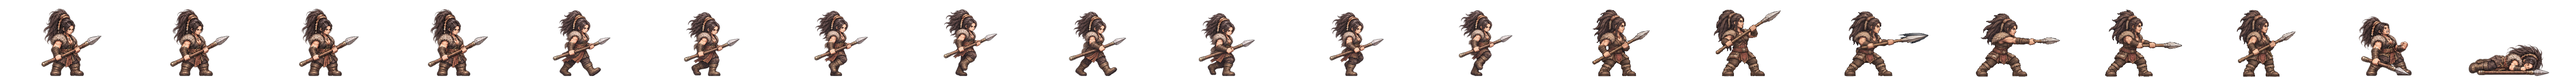
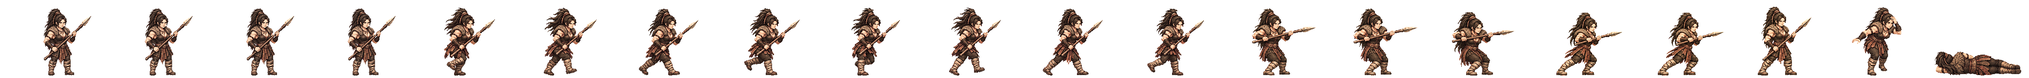
초팔 들메 새 전투 띠를 게임에 넣음(서기·걷기·창 찌르기 여덟 칸·쓰러짐·머리끈 질끈 묶기)
띠 검사 합격(경고: 서기 발 +21px · 공격 끝 칸 윗몸 -11px · 앞 여백 5px) · 찌르기 b 는 끝 칸 두 발이 모인 첫 판을 한 번 다시 그림 · 공격 끝 칸 키 141 ↔ 서기 138

Claude-Session: https://claude.ai/code/session_01TRiuN7s6aDfSnaHxrkctmU

Changed region(s): [[0.0, 0.0938, 1.0, 1.0]]

diff --git a/src/realm/data/spritePx.ts b/src/realm/data/spritePx.ts
@@ -1,3 +1,3 @@
 /** public/realm/anim-px/manifest.json 의 사본 — tools/sprite-normalize.mjs 가 만든다 (손으로 고치지 말 것). 칸 [가로, 세로] · feet = 발 줄(칸 위에서 y) · bodyPx = 서 있는 몸 키 */
 import { expandManifest } from './sprite-manifest.ts'
-export const SPRITE_PX: Readonly<Record<string, { readonly cell: readonly [number, number]; readonly feet: number; readonly bodyPx: number; readonly kind: 'general' | 'soldier' | 'folk' | 'crowd'; readonly cells: number }>> = expandManifest<{ readonly cell: readonly [number, number]; readonly feet: number; readonly bodyPx: number; readonly kind: 'general' | 'soldier' | 'folk' | 'crowd'; readonly cells: number }>([{"cell":[166,128],"feet":126,"bodyPx":124,"kind":"soldier","cells":20},{"cell":[116,128],"feet":126,"bodyPx":117,"kind":"soldier","cells":20},{"cell":[127,128],"feet":126,"bodyPx":116,"kind":"soldier","cells":20},{"cell":[269,128],"feet":126,"bodyPx":126,"kind":"soldier","cells":20},{"cell":[503,128],"feet":126,"bodyPx":127,"kind":"soldier","cells":20},{"cell":[614,128],"feet":126,"bodyPx":126,"kind":"soldier","cells":20},{"cell":[200,160],"feet":156,"bodyPx":138,"kind":"general","cells":20},{"cell":[208,160],"feet":155,"bodyPx":138,"kind":"general","cells":20},{"cell":[208,160],"feet":154,"bodyPx":138,"kind":"general","cells":20},{"cell":[304,160],"feet":155,"bodyPx":135,"kind":"general","cells":20},{"cell":[224,160],"feet":156,"bodyPx":139,"kind":"general","cells":20},{"cell":[184,160],"feet":156,"bodyPx":138,"kind":"general","cells":20},{"cell":[208,160],"feet":154,"bodyPx":136,"kind":"general","cells":20},{"cell":[240,160],"feet":156,"bodyPx":138,"kind":"general","cells":20},{"cell":[232,160],"feet":156,"bodyPx":138,"kind":"general","cells":20},{"cell":[208,160],"feet":156,"bodyPx":138,"kind":"general","cells":20},{"cell":[168,160],"feet":156,"bodyPx":138,"kind":"general","cells":20},{"cell":[192,160],"feet":156,"bodyPx":138,"kind":"general","cells":20},{"cell":[168,160],"feet":156,"bodyPx":124,"kind":"general","cells":20},{"cell":[216,160],"feet":156,"bodyPx":130,"kind":"general","cells":20},{"cell":[200,160],"feet":156,"bodyPx":116,"kind":"general","cells":20},{"cell":[200,160],"feet":156,"bodyPx":135,"kind":"general","cells":20},{"cell":[280,160],"feet":156,"bodyPx":138,"kind":"general","cells":20},{"cell":[232,160],"feet":155,"bodyPx":138,"kind":"general","cells":20},{"cell":[232,160],"feet":156,"bodyPx":134,"kind":"general","cells":20},{"cell":[144,160],"feet":156,"bodyPx":70,"kind":"general","cells":20},{"cell":[208,160],"feet":156,"bodyPx":70,"kind":"general","cells":20},{"cell":[192,160],"feet":156,"bodyPx":70,"kind":"general","cells":20},{"cell":[240,160],"feet":155,"bodyPx":138,"kind":"general","cells":20},{"cell":[160,160],"feet":156,"bodyPx":135,"kind":"general","cells":20},{"cell":[192,160],"feet":156,"bodyPx":128,"kind":"general","cells":20},{"cell":[224,160],"feet":155,"bodyPx":138,"kind":"general","cells":20},{"cell":[232,160],"feet":156,"bodyPx":139,"kind":"general","cells":20},{"cell":[216,160],"feet":156,"bodyPx":138,"kind":"general","cells":20},{"cell":[208,160],"feet":156,"bodyPx":134,"kind":"general","cells":20},{"cell":[176,160],"feet":156,"bodyPx":130,"kind":"general","cells":20},{"cell":[248,160],"feet":156,"bodyPx":138,"kind":"general","cells":20},{"cell":[248,160],"feet":155,"bodyPx":138,"kind":"general","cells":20},{"cell":[192,160],"feet":155,"bodyPx":138,"kind":"general","cells":20},{"cell":[192,160],"feet":156,"bodyPx":124,"kind":"general","cells":20},{"cell":[208,160],"feet":154,"bodyPx":131,"kind":"general","cells":20},{"cell":[256,160],"feet":156,"bodyPx":138,"kind":"general","cells":20},{"cell":[232,160],"feet":156,"bodyPx":73,"kind":"general","cells":20},{"cell":[256,160],"feet":155,"bodyPx":138,"kind":"general","cells":20},{"cell":[264,160],"feet":156,"bodyPx":138,"kind":"general","cells":20},{"cell":[224,160],"feet":156,"bodyPx":138,"kind":"general","cells":20},{"cell":[224,160],"feet":156,"bodyPx":128,"kind":"general","cells":20},{"cell":[176,160],"feet":156,"bodyPx":129,"kind":"general","cells":20},{"cell":[208,160],"feet":154,"bodyPx":139,"kind":"general","cells":20},{"cell":[208,160],"feet":156,"bodyPx":132,"kind":"general","cells":20},{"cell":[216,160],"feet":155,"bodyPx":138,"kind":"general","cells":20},{"cell":[184,160],"feet":156,"bodyPx":122,"kind":"general","cells":20},{"cell":[176,160],"feet":156,"bodyPx":138,"kind":"general","cells":20},{"cell":[280,160],"feet":155,"bodyPx":133,"kind":"general","cells":20},{"cell":[176,160],"feet":156,"bodyPx":70,"kind":"general","cells":20},{"cell":[186,128],"feet":126,"bodyPx":127,"kind":"soldier","cells":20},{"cell":[298,128],"feet":126,"bodyPx":126,"kind":"soldier","cells":20},{"cell":[82,128],"feet":126,"bodyPx":114,"kind":"folk","cells":8},{"cell":[134,128],"feet":126,"bodyPx":119,"kind":"soldier","cells":20},{"cell":[380,128],"feet":126,"bodyPx":124,"kind":"soldier","cells":20},{"cell":[114,128],"feet":126,"bodyPx":115,"kind":"soldier","cells":20},{"cell":[122,128],"feet":126,"bodyPx":114,"kind":"soldier","cells":20},{"cell":[254,128],"feet":126,"bodyPx":128,"kind":"soldier","cells":20},{"cell":[438,128],"feet":126,"bodyPx":126,"kind":"soldier","cells":20},{"cell":[88,128],"feet":126,"bodyPx":113,"kind":"folk","cells":8},{"cell":[100,128],"feet":126,"bodyPx":115,"kind":"folk","cells":8},{"cell":[108,128],"feet":126,"bodyPx":115,"kind":"folk","cells":8},{"cell":[63,128],"feet":126,"bodyPx":113,"kind":"folk","cells":8},{"cell":[69,96],"feet":96,"bodyPx":96,"kind":"crowd","cells":1},{"cell":[54,96],"feet":96,"bodyPx":96,"kind":"crowd","cells":1},{"cell":[47,96],"feet":96,"bodyPx":96,"kind":"crowd","cells":1},{"cell":[49,96],"feet":96,"bodyPx":96,"kind":"crowd","cells":1},{"cell":[57,96],"feet":96,"bodyPx":96,"kind":"crowd","cells":1},{"cell":[55,96],"feet":96,"bodyPx":96,"kind":"crowd","cells":1},{"cell":[45,96],"feet":96,"bodyPx":96,"kind":"crowd","cells":1},{"cell":[53,96],"feet":96,"bodyPx":96,"kind":"crowd","cells":1},{"cell":[64,96],"feet":96,"bodyPx":96,"kind":"crowd","cells":1},{"cell":[184,160],"feet":156,"bodyPx":124,"kind":"general","cells":20},{"cell":[184,160],"feet":156,"bodyPx":134,"kind":"general","cells":20},{"cell":[224,160],"feet":156,"bodyPx":133,"kind":"general","cells":20},{"cell":[192,160],"feet":156,"bodyPx":135,"kind":"general","cells":20},{"cell":[184,160],"feet":156,"bodyPx":137,"kind":"general","cells":20},{"cell":[216,160],"feet":156,"bodyPx":134,"kind":"general","cells":20},{"cell":[216,160],"feet":156,"bodyPx":132,"kind":"general","cells":20},{"cell":[288,160],"feet":156,"bodyPx":138,"kind":"general","cells":20},{"cell":[192,160],"feet":156,"bodyPx":118,"kind":"general","cells":20},{"cell":[192,160],"feet":156,"bodyPx":134,"kind":"general","cells":20},{"cell":[192,160],"feet":157,"bodyPx":139,"kind":"general","cells":20},{"cell":[184,160],"feet":156,"bodyPx":128,"kind":"general","cells":20},{"cell":[240,160],"feet":156,"bodyPx":128,"kind":"general","cells":20},{"cell":[184,160],"feet":156,"bodyPx":132,"kind":"general","cells":20},{"cell":[208,160],"feet":156,"bodyPx":123,"kind":"general","cells":20},{"cell":[208,160],"feet":154,"bodyPx":137,"kind":"general","cells":20},{"cell":[176,160],"feet":156,"bodyPx":116,"kind":"general","cells":20},{"cell":[272,160],"feet":156,"bodyPx":138,"kind":"general","cells":20},{"cell":[176,160],"feet":156,"bodyPx":122,"kind":"general","cells":20},{"cell":[232,160],"feet":156,"bodyPx":127,"kind":"general","cells":20},{"cell":[176,160],"feet":156,"bodyPx":137,"kind":"general","cells":20},{"cell":[184,160],"feet":156,"bodyPx":133,"kind":"general","cells":20}],[["axe",0],["bandit-chief",1],["bandit-club",2],["boat",3],["bow",4],["crossbow",5],["gen-adogan",6],["gen-alpyeong",7],["gen-ara",8],["gen-areum",8],["gen-aryeong",9],["gen-bakdal",6],["gen-baram",10],["gen-bdanbi",11],["gen-beom",12],["gen-beombal",11],["gen-beomi",13],["gen-bira",14],["gen-biryu",15],["gen-budeul",16],["gen-byeol",17],["gen-daemusin",18],["gen-daeso",19],["gen-dallae2",11],["gen-dalli",11],["gen-damul",20],["gen-danbi",15],["gen-dangung",17],["gen-darae",21],["gen-dokmudeom",7],["gen-duman",22],["gen-eomni",23],["gen-eureum",24],["gen-g-bow",25],["gen-g-spear",26],["gen-g-sword",27],["gen-gaennae",6],["gen-gamsil",28],["gen-gaon",29],["gen-geota",15],["gen-geumbawi",11],["gen-geumha",30],["gen-goeun",15],["gen-gom",31],["gen-gomok",15],["gen-gureum",28],["gen-guryema",17],["gen-gwaeyu",14],["gen-haebi",8],["gen-haedal",6],["gen-haesol",32],["gen-halla",7],["gen-heo",8],["gen-hneoul",11],["gen-hogong",33],["gen-hojin",15],["gen-horselord",34],["gen-hwalmi",35],["gen-hyeokgeose",17],["gen-hyeopbo",6],["gen-irang",15],["gen-jibaekho",36],["gen-jinha",37],["gen-jita",38],["gen-jumong",39],["gen-keundol",7],["gen-maehwa",40],["gen-maenun",17],["gen-malgalgi",41],["gen-mari",13],["gen-maro",36],["gen-maryeo",15],["gen-mdallae",32],["gen-mir",6],["gen-mount",42],["gen-mulbeom",43],["gen-mulsae",33],["gen-musoe",33],["gen-noeul",8],["gen-nuri",44],["gen-ocheongan",45],["gen-odi",8],["gen-odogan",6],["gen-ogan",17],["gen-oi",46],["gen-olddaeso",24],["gen-onjo",47],["gen-pidogan",15],["gen-sagong",48],["gen-sdallae",6],["gen-sincheongan",33],["gen-singwigan",33],["gen-sinneoul",8],["gen-sobeol",23],["gen-soebi",6],["gen-soebo",49],["gen-soenun",36],["gen-sogeumbi",50],["gen-songbi",45],["gen-songyang",51],["gen-sori",52],["gen-soseono",53],["gen-suro",17],["gen-tahae",6],["gen-tneoul",8],["gen-w-bow",25],["gen-w-spear",54],["gen-waechief",15],["gen-wan",33],["gen-yeodogan",15],["gen-yucheongan",15],["gen-yusugan",36],["horse",55],["marine",56],["migrant",57],["militia",58],["pike",59],["pirate-captain",60],["pirate-sword",61],["shield",62],["spear",63],["villager-builder",64],["villager-farmer",65],["villager-porter",66],["villager-woman",67],["crowd-b1",68],["crowd-b2",69],["crowd-b3",70],["crowd-b4",71],["crowd-b5",72],["crowd-b6",73],["crowd-f1",68],["crowd-f2",73],["crowd-f3",74],["crowd-f4",75],["crowd-f5",68],["crowd-f6",76],["gen-dalbit",15],["gen-base-g-07-drunk-warrior",17],["gen-base-g-40-anya-adan",15],["gen-base-w-13-young-archer",8],["gen-base-g-03-sea-trader",13],["gen-base-w-10-pirate-captain",48],["gen-base-w-64-miri-dallae",48],["gen-base-g-41-goja-bau",13],["gen-base-g-42-dokro-garam",44],["gen-base-g-09-farmer-conscript",33],["gen-base-w-02-goguryeo-lady",33],["gen-base-w-17-mahan-pearl-diver",8],["gen-base-g-17-saro-isageum",49],["gen-base-g-18-daegaya-king",77],["gen-base-g-35-dabeol-dalgu",15],["gen-base-g-19-sabeol-veteran",33],["gen-base-w-23-usisan-whale-queen",8],["gen-base-g-36-gammun-gamdol",45],["gen-base-g-20-samul-sea-lord",41],["gen-base-g-37-eumjeup-jeup",11],["gen-base-g-38-chopal-palmae",17],["gen-base-w-75-daegaya-soemoe",17],["gen-base-g-45-dabeol-deulgae",11],["gen-base-g-04-jinhan-giant",15],["gen-base-g-08-veteran",15],["gen-base-w-18-jinhan-salt-widow",15],["gen-base-w-12-court-dancer",78],["gen-base-w-83-gyeonji-beodeul",79],["gen-base-w-05-baekje-queen",80],["gen-base-w-21-baekje-court-dancer",11],["gen-base-g-01-master-smith",81],["gen-base-g-93-jomun-solgae",35],["gen-base-g-57-bihwa-neup",13],["gen-base-w-72-eumjeup-beol",8],["gen-base-w-102-garak-dana",33],["gen-base-g-68-baekje-onnuri",15],["gen-base-w-27-mokji-jinha",6],["gen-base-g-22-ungcheon-gomnae",6],["gen-base-g-23-sangdang-soedal",15],["gen-base-g-24-wansan-onsan",6],["gen-base-g-25-balla-keunmoe",33],["gen-base-g-61-heomcheuk-bawi",33],["gen-base-g-88-wander-soeul",45],["gen-base-w-14-feast-spy",6],["gen-base-g-12-silla-youth",82],["gen-base-w-08-mahan-warrior",8],["gen-base-g-62-beonye-hanul",13],["gen-base-g-63-heomcheuk-beogeum",15],["gen-base-g-84-wander-seoneul",15],["gen-base-w-50-siljik-mulga",33],["gen-base-g-46-uga-nureongso",33],["gen-base-w-80-usan-gangchi",13],["gen-base-g-47-guga-sanyanggae",33],["gen-base-w-76-gampyeong-baetsagong",8],["gen-base-g-05-mahan-chieftain",83],["gen-base-g-58-usan-uhae",15],["gen-base-g-27-maek-maekdol",15],["gen-base-w-53-hwanna-gabi",16],["gen-base-w-29-golpo-janmul",36],["gen-base-g-53-baekje-haeru",6],["gen-base-w-71-yeonna-neoul",13],["gen-base-w-79-yangmaek-solmae",33],["gen-base-w-34-chopal-deulme",44],["gen-base-g-44-maga-malgup",84],["gen-base-w-31-dabeol-dalbit",48],["gen-base-g-51-biryuna-mulgyeol",45],["gen-base-g-48-gwanna-musoe",15],["gen-base-g-32-uga-sodu",14],["gen-base-g-49-goguryeo-sona",85],["gen-base-g-30-gwanna-soemoe",45],["gen-base-g-52-tamna-oreum",11],["gen-base-g-29-yeonna-myeongsol",39],["gen-base-w-56-dongokjeo-sogeum",86],["gen-base-g-54-mokji-mahan",14],["gen-base-g-33-jeoga-metdol",17],["gen-base-w-36-baekje-maena",17],["gen-base-w-38-sangdang-bulmae",6],["gen-base-w-39-gosaburi-galmae",87],["gen-base-w-40-mujin-munui",49],["gen-base-w-41-hwanna-beodeul",88],["gen-base-w-43-uga-nuri",41],["gen-base-w-45-tamna-oreumbi",11],["gen-base-g-60-golbeol-golgae",11],["gen-base-g-61-apdok-ap",33],["gen-base-g-62-gammun-gamnamu",6],["gen-base-g-63-chopal-yeoul",36],["gen-base-g-64-michuhol-sogeumkkun",13],["gen-base-g-65-sangdang-soemangchi",45],["gen-base-g-66-geonma-malbalgup",89],["gen-base-g-67-gosaburi-buri",90],["gen-base-g-68-mujin-bitgoeul",11],["gen-base-g-69-goryong-yong",45],["gen-base-g-70-siljik-pado",13],["gen-base-w-81-byeokjin-byeolbit",14],["gen-base-w-46-geonma-maru",36],["gen-base-w-48-mujin-mudeung",13],["gen-base-g-26-gampyeong-gaetbeol",14],["gen-base-g-60-eupcha-hangyeol",91],["gen-base-g-15-shaman-man",33],["gen-base-g-85-wander-ure",36],["gen-base-g-43-hwanna-amnok",15],["gen-base-g-50-bullae-gwaha",80],["gen-base-g-55-saro-bakdal",15],["gen-base-g-56-haseulla-gwahama",6],["gen-base-w-06-buyeo-huntress",92],["gen-base-w-22-dongye-tiger-huntress",8],["gen-base-w-25-bihwa-priestess",33],["gen-base-w-24-apdok-queen",11],["gen-base-w-61-iseo-sinae",15],["gen-base-w-26-iseo-tomboy-general",8],["gen-base-g-59-yangmaek-maekson",93],["gen-aw1-haebi",45],["gen-aw1-soseono",94],["gen-aw1-gamsil",11],["gen-aw1-mir",52],["gen-aw1-dangung",6],["gen-aw1-ara",45],["gen-aw1-jumong",95],["gen-aw1-onjo",96],["gen-aw1-base-w-83-gyeonji-beodeul",17],["gen-aw1-heo",44],["gen-aw1-base-g-38-chopal-palmae",6],["gen-aw1-base-w-25-bihwa-priestess",78],["gen-aw1-sori",16],["gen-aw1-gomok",6],["gen-aw1-irang",17],["gen-aw1-budeul",16],["gen-aw1-gom",13],["gen-aw1-sdallae",6],["gen-aw1-base-w-13-young-archer",6],["gen-aw1-base-w-36-baekje-maena",97],["gen-aw1-base-g-09-farmer-conscript",44],["gen-aw1-base-w-02-goguryeo-lady",98],["gen-aw1-haedal",11],["gen-aw1-hogong",6],["gen-aw1-maehwa",52],["gen-aw1-base-w-06-buyeo-huntress",14],["gen-aw1-base-w-08-mahan-warrior",45],["gen-aw1-base-w-29-golpo-janmul",45],["gen-aw1-base-w-31-dabeol-dalbit",17],["gen-aw1-base-w-38-sangdang-bulmae",16],["gen-aw1-bira",33],["gen-aw1-base-w-53-hwanna-gabi",16],["gen-aw1-base-w-56-dongokjeo-sogeum",52],["gen-aw1-base-w-72-eumjeup-beol",17],["gen-aw1-bdanbi",16],["gen-aw1-beom",11],["gen-aw1-beombal",11],["gen-aw1-byeol",17],["gen-aw1-dalli",52],["gen-aw1-malgalgi",36],["gen-aw1-sincheongan",33]])
+export const SPRITE_PX: Readonly<Record<string, { readonly cell: readonly [number, number]; readonly feet: number; readonly bodyPx: number; readonly kind: 'general' | 'soldier' | 'folk' | 'crowd'; readonly cells: number }>> = expandManifest<{ readonly cell: readonly [number, number]; readonly feet: number; readonly bodyPx: number; readonly kind: 'general' | 'soldier' | 'folk' | 'crowd'; readonly cells: number }>([{"cell":[166,128],"feet":126,"bodyPx":124,"kind":"soldier","cells":20},{"cell":[116,128],"feet":126,"bodyPx":117,"kind":"soldier","cells":20},{"cell":[127,128],"feet":126,"bodyPx":116,"kind":"soldier","cells":20},{"cell":[269,128],"feet":126,"bodyPx":126,"kind":"soldier","cells":20},{"cell":[503,128],"feet":126,"bodyPx":127,"kind":"soldier","cells":20},{"cell":[614,128],"feet":126,"bodyPx":126,"kind":"soldier","cells":20},{"cell":[200,160],"feet":156,"bodyPx":138,"kind":"general","cells":20},{"cell":[208,160],"feet":155,"bodyPx":138,"kind":"general","cells":20},{"cell":[208,160],"feet":154,"bodyPx":138,"kind":"general","cells":20},{"cell":[304,160],"feet":155,"bodyPx":135,"kind":"general","cells":20},{"cell":[224,160],"feet":156,"bodyPx":139,"kind":"general","cells":20},{"cell":[184,160],"feet":156,"bodyPx":138,"kind":"general","cells":20},{"cell":[208,160],"feet":154,"bodyPx":136,"kind":"general","cells":20},{"cell":[240,160],"feet":156,"bodyPx":138,"kind":"general","cells":20},{"cell":[232,160],"feet":156,"bodyPx":138,"kind":"general","cells":20},{"cell":[208,160],"feet":156,"bodyPx":138,"kind":"general","cells":20},{"cell":[168,160],"feet":156,"bodyPx":138,"kind":"general","cells":20},{"cell":[192,160],"feet":156,"bodyPx":138,"kind":"general","cells":20},{"cell":[168,160],"feet":156,"bodyPx":124,"kind":"general","cells":20},{"cell":[216,160],"feet":156,"bodyPx":130,"kind":"general","cells":20},{"cell":[200,160],"feet":156,"bodyPx":116,"kind":"general","cells":20},{"cell":[200,160],"feet":156,"bodyPx":135,"kind":"general","cells":20},{"cell":[280,160],"feet":156,"bodyPx":138,"kind":"general","cells":20},{"cell":[232,160],"feet":155,"bodyPx":138,"kind":"general","cells":20},{"cell":[232,160],"feet":156,"bodyPx":134,"kind":"general","cells":20},{"cell":[144,160],"feet":156,"bodyPx":70,"kind":"general","cells":20},{"cell":[208,160],"feet":156,"bodyPx":70,"kind":"general","cells":20},{"cell":[192,160],"feet":156,"bodyPx":70,"kind":"general","cells":20},{"cell":[240,160],"feet":155,"bodyPx":138,"kind":"general","cells":20},{"cell":[160,160],"feet":156,"bodyPx":135,"kind":"general","cells":20},{"cell":[192,160],"feet":156,"bodyPx":128,"kind":"general","cells":20},{"cell":[224,160],"feet":155,"bodyPx":138,"kind":"general","cells":20},{"cell":[232,160],"feet":156,"bodyPx":139,"kind":"general","cells":20},{"cell":[216,160],"feet":156,"bodyPx":138,"kind":"general","cells":20},{"cell":[208,160],"feet":156,"bodyPx":134,"kind":"general","cells":20},{"cell":[176,160],"feet":156,"bodyPx":130,"kind":"general","cells":20},{"cell":[248,160],"feet":156,"bodyPx":138,"kind":"general","cells":20},{"cell":[248,160],"feet":155,"bodyPx":138,"kind":"general","cells":20},{"cell":[192,160],"feet":155,"bodyPx":138,"kind":"general","cells":20},{"cell":[192,160],"feet":156,"bodyPx":124,"kind":"general","cells":20},{"cell":[208,160],"feet":154,"bodyPx":131,"kind":"general","cells":20},{"cell":[256,160],"feet":156,"bodyPx":138,"kind":"general","cells":20},{"cell":[232,160],"feet":156,"bodyPx":73,"kind":"general","cells":20},{"cell":[256,160],"feet":155,"bodyPx":138,"kind":"general","cells":20},{"cell":[264,160],"feet":156,"bodyPx":138,"kind":"general","cells":20},{"cell":[224,160],"feet":156,"bodyPx":138,"kind":"general","cells":20},{"cell":[224,160],"feet":156,"bodyPx":128,"kind":"general","cells":20},{"cell":[176,160],"feet":156,"bodyPx":129,"kind":"general","cells":20},{"cell":[208,160],"feet":154,"bodyPx":139,"kind":"general","cells":20},{"cell":[208,160],"feet":156,"bodyPx":132,"kind":"general","cells":20},{"cell":[216,160],"feet":155,"bodyPx":138,"kind":"general","cells":20},{"cell":[184,160],"feet":156,"bodyPx":122,"kind":"general","cells":20},{"cell":[176,160],"feet":156,"bodyPx":138,"kind":"general","cells":20},{"cell":[280,160],"feet":155,"bodyPx":133,"kind":"general","cells":20},{"cell":[176,160],"feet":156,"bodyPx":70,"kind":"general","cells":20},{"cell":[186,128],"feet":126,"bodyPx":127,"kind":"soldier","cells":20},{"cell":[298,128],"feet":126,"bodyPx":126,"kind":"soldier","cells":20},{"cell":[82,128],"feet":126,"bodyPx":114,"kind":"folk","cells":8},{"cell":[134,128],"feet":126,"bodyPx":119,"kind":"soldier","cells":20},{"cell":[380,128],"feet":126,"bodyPx":124,"kind":"soldier","cells":20},{"cell":[114,128],"feet":126,"bodyPx":115,"kind":"soldier","cells":20},{"cell":[122,128],"feet":126,"bodyPx":114,"kind":"soldier","cells":20},{"cell":[254,128],"feet":126,"bodyPx":128,"kind":"soldier","cells":20},{"cell":[438,128],"feet":126,"bodyPx":126,"kind":"soldier","cells":20},{"cell":[88,128],"feet":126,"bodyPx":113,"kind":"folk","cells":8},{"cell":[100,128],"feet":126,"bodyPx":115,"kind":"folk","cells":8},{"cell":[108,128],"feet":126,"bodyPx":115,"kind":"folk","cells":8},{"cell":[63,128],"feet":126,"bodyPx":113,"kind":"folk","cells":8},{"cell":[69,96],"feet":96,"bodyPx":96,"kind":"crowd","cells":1},{"cell":[54,96],"feet":96,"bodyPx":96,"kind":"crowd","cells":1},{"cell":[47,96],"feet":96,"bodyPx":96,"kind":"crowd","cells":1},{"cell":[49,96],"feet":96,"bodyPx":96,"kind":"crowd","cells":1},{"cell":[57,96],"feet":96,"bodyPx":96,"kind":"crowd","cells":1},{"cell":[55,96],"feet":96,"bodyPx":96,"kind":"crowd","cells":1},{"cell":[45,96],"feet":96,"bodyPx":96,"kind":"crowd","cells":1},{"cell":[53,96],"feet":96,"bodyPx":96,"kind":"crowd","cells":1},{"cell":[64,96],"feet":96,"bodyPx":96,"kind":"crowd","cells":1},{"cell":[184,160],"feet":156,"bodyPx":124,"kind":"general","cells":20},{"cell":[184,160],"feet":156,"bodyPx":134,"kind":"general","cells":20},{"cell":[224,160],"feet":156,"bodyPx":133,"kind":"general","cells":20},{"cell":[192,160],"feet":156,"bodyPx":135,"kind":"general","cells":20},{"cell":[184,160],"feet":156,"bodyPx":137,"kind":"general","cells":20},{"cell":[216,160],"feet":156,"bodyPx":134,"kind":"general","cells":20},{"cell":[216,160],"feet":156,"bodyPx":132,"kind":"general","cells":20},{"cell":[288,160],"feet":156,"bodyPx":138,"kind":"general","cells":20},{"cell":[192,160],"feet":156,"bodyPx":118,"kind":"general","cells":20},{"cell":[192,160],"feet":156,"bodyPx":134,"kind":"general","cells":20},{"cell":[192,160],"feet":157,"bodyPx":139,"kind":"general","cells":20},{"cell":[184,160],"feet":156,"bodyPx":128,"kind":"general","cells":20},{"cell":[240,160],"feet":156,"bodyPx":128,"kind":"general","cells":20},{"cell":[184,160],"feet":156,"bodyPx":132,"kind":"general","cells":20},{"cell":[208,160],"feet":156,"bodyPx":123,"kind":"general","cells":20},{"cell":[208,160],"feet":154,"bodyPx":137,"kind":"general","cells":20},{"cell":[176,160],"feet":156,"bodyPx":116,"kind":"general","cells":20},{"cell":[272,160],"feet":156,"bodyPx":138,"kind":"general","cells":20},{"cell":[176,160],"feet":156,"bodyPx":122,"kind":"general","cells":20},{"cell":[232,160],"feet":156,"bodyPx":127,"kind":"general","cells":20},{"cell":[176,160],"feet":156,"bodyPx":137,"kind":"general","cells":20},{"cell":[184,160],"feet":156,"bodyPx":133,"kind":"general","cells":20}],[["axe",0],["bandit-chief",1],["bandit-club",2],["boat",3],["bow",4],["crossbow",5],["gen-adogan",6],["gen-alpyeong",7],["gen-ara",8],["gen-areum",8],["gen-aryeong",9],["gen-bakdal",6],["gen-baram",10],["gen-bdanbi",11],["gen-beom",12],["gen-beombal",11],["gen-beomi",13],["gen-bira",14],["gen-biryu",15],["gen-budeul",16],["gen-byeol",17],["gen-daemusin",18],["gen-daeso",19],["gen-dallae2",11],["gen-dalli",11],["gen-damul",20],["gen-danbi",15],["gen-dangung",17],["gen-darae",21],["gen-dokmudeom",7],["gen-duman",22],["gen-eomni",23],["gen-eureum",24],["gen-g-bow",25],["gen-g-spear",26],["gen-g-sword",27],["gen-gaennae",6],["gen-gamsil",28],["gen-gaon",29],["gen-geota",15],["gen-geumbawi",11],["gen-geumha",30],["gen-goeun",15],["gen-gom",31],["gen-gomok",15],["gen-gureum",28],["gen-guryema",17],["gen-gwaeyu",14],["gen-haebi",8],["gen-haedal",6],["gen-haesol",32],["gen-halla",7],["gen-heo",8],["gen-hneoul",11],["gen-hogong",33],["gen-hojin",15],["gen-horselord",34],["gen-hwalmi",35],["gen-hyeokgeose",17],["gen-hyeopbo",6],["gen-irang",15],["gen-jibaekho",36],["gen-jinha",37],["gen-jita",38],["gen-jumong",39],["gen-keundol",7],["gen-maehwa",40],["gen-maenun",17],["gen-malgalgi",41],["gen-mari",13],["gen-maro",36],["gen-maryeo",15],["gen-mdallae",32],["gen-mir",6],["gen-mount",42],["gen-mulbeom",43],["gen-mulsae",33],["gen-musoe",33],["gen-noeul",8],["gen-nuri",44],["gen-ocheongan",45],["gen-odi",8],["gen-odogan",6],["gen-ogan",17],["gen-oi",46],["gen-olddaeso",24],["gen-onjo",47],["gen-pidogan",15],["gen-sagong",48],["gen-sdallae",6],["gen-sincheongan",33],["gen-singwigan",33],["gen-sinneoul",8],["gen-sobeol",23],["gen-soebi",6],["gen-soebo",49],["gen-soenun",36],["gen-sogeumbi",50],["gen-songbi",45],["gen-songyang",51],["gen-sori",52],["gen-soseono",53],["gen-suro",17],["gen-tahae",6],["gen-tneoul",8],["gen-w-bow",25],["gen-w-spear",54],["gen-waechief",15],["gen-wan",33],["gen-yeodogan",15],["gen-yucheongan",15],["gen-yusugan",36],["horse",55],["marine",56],["migrant",57],["militia",58],["pike",59],["pirate-captain",60],["pirate-sword",61],["shield",62],["spear",63],["villager-builder",64],["villager-farmer",65],["villager-porter",66],["villager-woman",67],["crowd-b1",68],["crowd-b2",69],["crowd-b3",70],["crowd-b4",71],["crowd-b5",72],["crowd-b6",73],["crowd-f1",68],["crowd-f2",73],["crowd-f3",74],["crowd-f4",75],["crowd-f5",68],["crowd-f6",76],["gen-dalbit",15],["gen-base-g-07-drunk-warrior",17],["gen-base-g-40-anya-adan",15],["gen-base-w-13-young-archer",8],["gen-base-g-03-sea-trader",13],["gen-base-w-10-pirate-captain",48],["gen-base-w-64-miri-dallae",48],["gen-base-g-41-goja-bau",13],["gen-base-g-42-dokro-garam",44],["gen-base-g-09-farmer-conscript",33],["gen-base-w-02-goguryeo-lady",33],["gen-base-w-17-mahan-pearl-diver",8],["gen-base-g-17-saro-isageum",49],["gen-base-g-18-daegaya-king",77],["gen-base-g-35-dabeol-dalgu",15],["gen-base-g-19-sabeol-veteran",33],["gen-base-w-23-usisan-whale-queen",8],["gen-base-g-36-gammun-gamdol",45],["gen-base-g-20-samul-sea-lord",41],["gen-base-g-37-eumjeup-jeup",11],["gen-base-g-38-chopal-palmae",17],["gen-base-w-75-daegaya-soemoe",17],["gen-base-g-45-dabeol-deulgae",11],["gen-base-g-04-jinhan-giant",15],["gen-base-g-08-veteran",15],["gen-base-w-18-jinhan-salt-widow",15],["gen-base-w-12-court-dancer",78],["gen-base-w-83-gyeonji-beodeul",79],["gen-base-w-05-baekje-queen",80],["gen-base-w-21-baekje-court-dancer",11],["gen-base-g-01-master-smith",81],["gen-base-g-93-jomun-solgae",35],["gen-base-g-57-bihwa-neup",13],["gen-base-w-72-eumjeup-beol",8],["gen-base-w-102-garak-dana",33],["gen-base-g-68-baekje-onnuri",15],["gen-base-w-27-mokji-jinha",6],["gen-base-g-22-ungcheon-gomnae",6],["gen-base-g-23-sangdang-soedal",15],["gen-base-g-24-wansan-onsan",6],["gen-base-g-25-balla-keunmoe",33],["gen-base-g-61-heomcheuk-bawi",33],["gen-base-g-88-wander-soeul",45],["gen-base-w-14-feast-spy",6],["gen-base-g-12-silla-youth",82],["gen-base-w-08-mahan-warrior",8],["gen-base-g-62-beonye-hanul",13],["gen-base-g-63-heomcheuk-beogeum",15],["gen-base-g-84-wander-seoneul",15],["gen-base-w-50-siljik-mulga",33],["gen-base-g-46-uga-nureongso",33],["gen-base-w-80-usan-gangchi",13],["gen-base-g-47-guga-sanyanggae",33],["gen-base-w-76-gampyeong-baetsagong",8],["gen-base-g-05-mahan-chieftain",83],["gen-base-g-58-usan-uhae",15],["gen-base-g-27-maek-maekdol",15],["gen-base-w-53-hwanna-gabi",16],["gen-base-w-29-golpo-janmul",36],["gen-base-g-53-baekje-haeru",6],["gen-base-w-71-yeonna-neoul",13],["gen-base-w-79-yangmaek-solmae",33],["gen-base-w-34-chopal-deulme",8],["gen-base-g-44-maga-malgup",84],["gen-base-w-31-dabeol-dalbit",48],["gen-base-g-51-biryuna-mulgyeol",45],["gen-base-g-48-gwanna-musoe",15],["gen-base-g-32-uga-sodu",14],["gen-base-g-49-goguryeo-sona",85],["gen-base-g-30-gwanna-soemoe",45],["gen-base-g-52-tamna-oreum",11],["gen-base-g-29-yeonna-myeongsol",39],["gen-base-w-56-dongokjeo-sogeum",86],["gen-base-g-54-mokji-mahan",14],["gen-base-g-33-jeoga-metdol",17],["gen-base-w-36-baekje-maena",17],["gen-base-w-38-sangdang-bulmae",6],["gen-base-w-39-gosaburi-galmae",87],["gen-base-w-40-mujin-munui",49],["gen-base-w-41-hwanna-beodeul",88],["gen-base-w-43-uga-nuri",41],["gen-base-w-45-tamna-oreumbi",11],["gen-base-g-60-golbeol-golgae",11],["gen-base-g-61-apdok-ap",33],["gen-base-g-62-gammun-gamnamu",6],["gen-base-g-63-chopal-yeoul",36],["gen-base-g-64-michuhol-sogeumkkun",13],["gen-base-g-65-sangdang-soemangchi",45],["gen-base-g-66-geonma-malbalgup",89],["gen-base-g-67-gosaburi-buri",90],["gen-base-g-68-mujin-bitgoeul",11],["gen-base-g-69-goryong-yong",45],["gen-base-g-70-siljik-pado",13],["gen-base-w-81-byeokjin-byeolbit",14],["gen-base-w-46-geonma-maru",36],["gen-base-w-48-mujin-mudeung",13],["gen-base-g-26-gampyeong-gaetbeol",14],["gen-base-g-60-eupcha-hangyeol",91],["gen-base-g-15-shaman-man",33],["gen-base-g-85-wander-ure",36],["gen-base-g-43-hwanna-amnok",15],["gen-base-g-50-bullae-gwaha",80],["gen-base-g-55-saro-bakdal",15],["gen-base-g-56-haseulla-gwahama",6],["gen-base-w-06-buyeo-huntress",92],["gen-base-w-22-dongye-tiger-huntress",8],["gen-base-w-25-bihwa-priestess",33],["gen-base-w-24-apdok-queen",11],["gen-base-w-61-iseo-sinae",15],["gen-base-w-26-iseo-tomboy-general",8],["gen-base-g-59-yangmaek-maekson",93],["gen-aw1-haebi",45],["gen-aw1-soseono",94],["gen-aw1-gamsil",11],["gen-aw1-mir",52],["gen-aw1-dangung",6],["gen-aw1-ara",45],["gen-aw1-jumong",95],["gen-aw1-onjo",96],["gen-aw1-base-w-83-gyeonji-beodeul",17],["gen-aw1-heo",44],["gen-aw1-base-g-38-chopal-palmae",6],["gen-aw1-base-w-25-bihwa-priestess",78],["gen-aw1-sori",16],["gen-aw1-gomok",6],["gen-aw1-irang",17],["gen-aw1-budeul",16],["gen-aw1-gom",13],["gen-aw1-sdallae",6],["gen-aw1-base-w-13-young-archer",6],["gen-aw1-base-w-36-baekje-maena",97],["gen-aw1-base-g-09-farmer-conscript",44],["gen-aw1-base-w-02-goguryeo-lady",98],["gen-aw1-haedal",11],["gen-aw1-hogong",6],["gen-aw1-maehwa",52],["gen-aw1-base-w-06-buyeo-huntress",14],["gen-aw1-base-w-08-mahan-warrior",45],["gen-aw1-base-w-29-golpo-janmul",45],["gen-aw1-base-w-31-dabeol-dalbit",17],["gen-aw1-base-w-38-sangdang-bulmae",16],["gen-aw1-bira",33],["gen-aw1-base-w-53-hwanna-gabi",16],["gen-aw1-base-w-56-dongokjeo-sogeum",52],["gen-aw1-base-w-72-eumjeup-beol",17],["gen-aw1-bdanbi",16],["gen-aw1-beom",11],["gen-aw1-beombal",11],["gen-aw1-byeol",17],["gen-aw1-dalli",52],["gen-aw1-malgalgi",36],["gen-aw1-sincheongan",33]])

diff --git a/src/duel/view.ts b/src/duel/view.ts
@@ -100,7 +100,7 @@ const crowdFront = [1, 2, 3, 4, 5, 6].map((i) => img(`realm/duel/crowd/b${i}.png
 const crowdReady = (set: HTMLImageElement[]): boolean => set.every((im) => im.complete && im.naturalWidth > 0)
 const pxMode = cfg.px !== false && params.get('px') !== '0'
 /** 겨루기 전용 옛 띠(duel/sprites) 대신 열전과 같은 도트 띠(anim-px)를 쓰는 장수 — 두 판에서 같은 모습 · 서기 계획·쓰러지는 칸도 같다 (11-23 범 · 매화 · 달빛 · 11-24 해비 · 아룸) */
-const PX_DUEL: ReadonlySet<string> = new Set(['beom', 'maehwa', 'base-w-31-dabeol-dalbit', 'haebi', 'areum', 'base-w-13-young-archer', 'base-w-10-pirate-captain', 'base-w-17-mahan-pearl-diver', 'base-w-06-buyeo-huntress', 'base-w-64-miri-dallae', 'ara', 'base-w-22-dongye-tiger-huntress', 'noeul', 'sagong', 'sinneoul', 'heo', 'base-w-08-mahan-warrior', 'base-w-23-usisan-whale-queen', 'base-w-26-iseo-tomboy-general', 'base-w-72-eumjeup-beol', 'tneoul', 'odi', 'base-w-76-gampyeong-baetsagong'])
+const PX_DUEL: ReadonlySet<string> = new Set(['beom', 'maehwa', 'base-w-31-dabeol-dalbit', 'haebi', 'areum', 'base-w-13-young-archer', 'base-w-10-pirate-captain', 'base-w-17-mahan-pearl-diver', 'base-w-06-buyeo-huntress', 'base-w-64-miri-dallae', 'ara', 'base-w-22-dongye-tiger-huntress', 'noeul', 'sagong', 'sinneoul', 'heo', 'base-w-08-mahan-warrior', 'base-w-23-usisan-whale-queen', 'base-w-26-iseo-tomboy-general', 'base-w-72-eumjeup-beol', 'tneoul', 'odi', 'base-w-76-gampyeong-baetsagong', 'base-w-34-chopal-deulme'])
 /** 띠 그림 — 기본은 anim-px(도트 규격) 먼저, 없으면 옛 띠로 (img 의 onerror 가 갈아 끼운다) */
 const strip = (s: string): HTMLImageElement => pxMode
   ? DUEL_ATLASES[s] !== undefined && !PX_DUEL.has(s) ? img(`realm/duel/sprites/gen-${s}.png`, `realm/anim-px/gen-${s}.png`)

diff --git a/src/tune/params.ts b/src/tune/params.ts
@@ -1442,6 +1442,7 @@ export const HAEBI_IDLE = {
     tneoul: { cells: 34, base: [0, 1], hold: 2.4, fall: [18, 20, 21, 19], quirk: [22, 23, 24, 25], quirkTimes: [.3, .32, .4, .28], attack: { cells: [26, 27, 28, 29, 30, 31, 32, 33], times: [.09, .08, .11, .05, .15, .07, .08, .12], hit: 4 }, xGeom: { h: 224, root: 92, foot: 216 } },
     odi: { cells: 34, base: [0, 1], hold: 2.4, fall: [18, 20, 21, 19], quirk: [22, 23, 24, 25], quirkTimes: [.3, .32, .4, .28], attack: { cells: [26, 27, 28, 29, 30, 31, 32, 33], times: [.09, .08, .11, .05, .15, .07, .08, .12], hit: 4 }, xGeom: { h: 224, root: 92, foot: 216 } },
     'base-w-76-gampyeong-baetsagong': { cells: 34, base: [0, 1], hold: 2.4, fall: [18, 20, 21, 19], quirk: [22, 23, 24, 25], quirkTimes: [.3, .32, .4, .28], attack: { cells: [26, 27, 28, 29, 30, 31, 32, 33], times: [.09, .08, .11, .05, .15, .07, .08, .12], hit: 4 }, xGeom: { h: 224, root: 92, foot: 216 } },
+    'base-w-34-chopal-deulme': { cells: 34, base: [0, 1], hold: 2.4, fall: [18, 20, 21, 19], quirk: [22, 23, 24, 25], quirkTimes: [.3, .32, .4, .28], attack: { cells: [26, 27, 28, 29, 30, 31, 32, 33], times: [.09, .08, .11, .05, .15, .07, .08, .12], hit: 4 }, xGeom: { h: 224, root: 92, foot: 216 } },
   },
 } as const
 export const HAEBI_ANIM = {

diff --git a/src/raid/hero-hd.ts b/src/raid/hero-hd.ts
@@ -31,7 +31,6 @@ export const HERO_HD: Readonly<Record<string, string>> = {
   'anim-px/gen-aryeong.png': 'anim-px/gen-aryeong_hd.png',
   'anim-px/gen-base-w-38-sangdang-bulmae.png': 'anim-px/gen-base-w-38-sangdang-bulmae_hd.png',
   'anim-px/gen-base-w-36-baekje-maena.png': 'anim-px/gen-base-w-36-baekje-maena_hd.png',
-  'anim-px/gen-base-w-34-chopal-deulme.png': 'anim-px/gen-base-w-34-chopal-deulme_hd.png',
   'anim-px/gen-base-w-29-golpo-janmul.png': 'anim-px/gen-base-w-29-golpo-janmul_hd.png',
   'anim-px/gen-base-w-27-mokji-jinha.png': 'anim-px/gen-base-w-27-mokji-jinha_hd.png',
   'anim-px/gen-base-w-25-bihwa-priestess.png': 'anim-px/gen-base-w-25-bihwa-priestess_hd.png',

diff --git a/tools/sprite-kit/anim-harness.py b/tools/sprite-kit/anim-harness.py
@@ -54,6 +54,7 @@ HEROES = {
     'tneoul': dict(strip='gen-tneoul', atk='thrust', atk8=True, act=True, legacy=(('a', 2), ('a', 3), ('b', 3), ('b', 4)), lock='face'),   # 탐라 너울(두 손 나무 노 · 가슴 L) · 머리 상자 묶기는 b-2 에서 얼굴 자리를 잘못 잡아 머리가 둘이 됐다(11-24) → 얼굴 안쪽만
     'baetsa': dict(strip='gen-base-w-76-gampyeong-baetsagong', atk='thrust', atk8=True, act=True, legacy=(('a', 2), ('a', 3), ('b', 3), ('b', 4))),   # 감평 뱃사공(두 손 나무 노 · 가슴 XL)
     'odi': dict(strip='gen-odi', atk='thrust', atk8=True, act=True, legacy=(('a', 2), ('a', 3), ('b', 3), ('b', 4))),   # 조문 오디(창 · 가슴 XL)
+    'deulme': dict(strip='gen-base-w-34-chopal-deulme', atk='thrust', atk8=True, act=True, legacy=(('a', 2), ('a', 3), ('b', 3), ('b', 4))),   # 초팔 들메(창 · 우람한 뼈대 · 가슴 L)
     'haebi': dict(strip='gen-haebi', atk='chop', atk8=True, act=True),   # act = 공격 여덟 칸이 넓은 동작 칸(240×224 · 뿌리 92 · 발 줄 216)
     'areum': dict(strip='gen-areum', atk='slam', atk8=True, act=True, lock='none'),   # 받은 그림 그대로(얼굴을 떠다 붙이지 않는다 — 11-24: 뭉친 얼굴이 여덟 칸에 퍼졌다) · 옛 lock='face': 메가 머리 뒤로 지나간다 — 머리 상자는 메를 자르고(「포스터」), 윗몸을 통째로 묶으면 떠다닌다(11-24 형) → 얼굴 안쪽만 묶는다
 }
